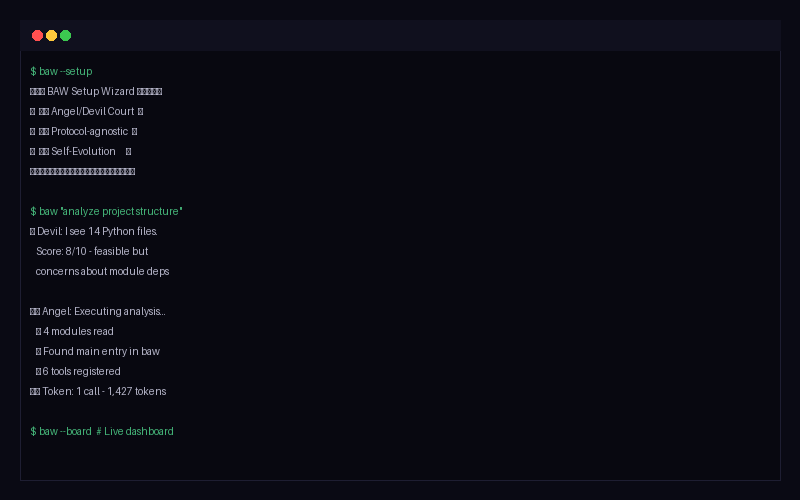
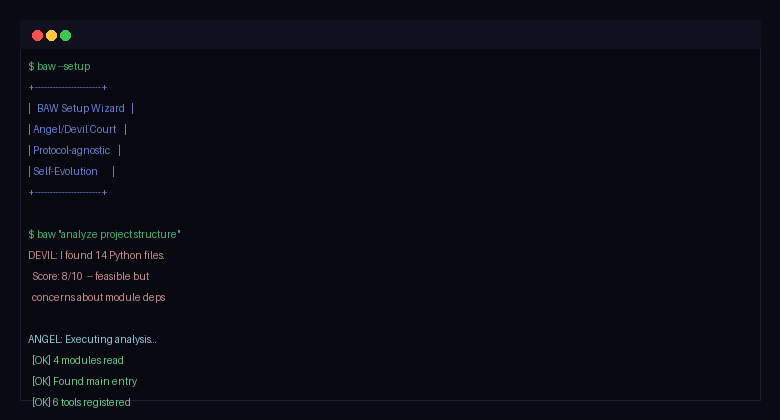
fix: demo terminal image — pure ASCII, no unicode artifacts

Changed region(s): [[0.0308, 0.4024, 0.2462, 0.9905], [0.0308, 0.1238, 0.2154, 0.3714], [0.0308, 0.0619, 0.0923, 0.0929]]

diff --git a/scripts/gen_demo_terminal.py b/scripts/gen_demo_terminal.py
@@ -1,50 +1,57 @@
-"""Generate demo terminal image for README."""
+"""Generate clean demo terminal image for README — ASCII only."""
 import os
 from PIL import Image, ImageDraw
 
-w, h = 800, 500
+w, h = 780, 420
 img = Image.new('RGB', (w, h), (10, 10, 20))
 draw = ImageDraw.Draw(img)
 
-# Draw terminal frame
+# Terminal frame + window dots
 draw.rectangle([20, 20, w-20, h-20], outline=(30, 30, 50), fill=(8, 8, 16))
-draw.rectangle([20, 20, w-20, 50], fill=(16, 16, 30))
+draw.rectangle([20, 20, w-20, 48], fill=(16, 16, 30))
 draw.ellipse([32, 30, 42, 40], fill=(255, 80, 80))
 draw.ellipse([46, 30, 56, 40], fill=(255, 200, 60))
 draw.ellipse([60, 30, 70, 40], fill=(60, 200, 80))
 
 lines = [
     ('prompt', '$ baw --setup'),
-    ('out',    '\u2554\u2550\u2550 BAW Setup Wizard \u2550\u2550\u2550\u2550\u2557'),
-    ('out',    '\u2551  \ud83e\ude84 Angel/Devil Court  \u2551'),
-    ('out',    '\u2551  \ud83d\udd0c Protocol-agnostic  \u2551'),
-    ('out',    '\u2551  \ud83e\udde0 Self-Evolution     \u2551'),
-    ('out',    '\u255a\u2550\u2550\u2550\u2550\u2550\u2550\u2550\u2550\u2550\u2550\u2550\u2550\u2550\u2550\u2550\u2550\u2550\u2550\u2550\u255d'),
-    ('prompt', ''),
+    ('banner', '+----------------------+'),
+    ('banner', '|   BAW Setup Wizard   |'),
+    ('banner', '| Angel/Devil Court    |'),
+    ('banner', '| Protocol-agnostic    |'),
+    ('banner', '| Self-Evolution       |'),
+    ('banner', '+----------------------+'),
+    ('',       ''),
     ('prompt', '$ baw "analyze project structure"'),
-    ('out',    '\u26ab Devil: I see 14 Python files.'),
-    ('out',    '   Score: 8/10 - feasible but'),
-    ('out',    '   concerns about module deps'),
-    ('out',    ''),
-    ('out',    '\ud83e\ude84 Angel: Executing analysis...'),
-    ('out',    '   \u2713 4 modules read'),
-    ('out',    '   \u2713 Found main entry in baw'),
-    ('out',    '   \u2713 6 tools registered'),
-    ('out',    '\ud83d\udcca Token: 1 call - 1,427 tokens'),
-    ('prompt', ''),
+    ('devil',  'DEVIL: I found 14 Python files.'),
+    ('devil',  '  Score: 8/10  -- feasible but'),
+    ('devil',  '  concerns about module deps'),
+    ('',       ''),
+    ('angel',  'ANGEL: Executing analysis...'),
+    ('ok',     '  [OK] 4 modules read'),
+    ('ok',     '  [OK] Found main entry'),
+    ('ok',     '  [OK] 6 tools registered'),
+    ('',       ''),
+    ('cost',   'Calls: 1  |  Total tokens: 1,427'),
+    ('',       ''),
     ('prompt', '$ baw --board  # Live dashboard'),
 ]
 
 colors = {
     'prompt': (68, 180, 120),
-    'out': (180, 180, 200),
+    'banner': (100, 130, 210),
+    'devil':  (200, 140, 140),
+    'angel':  (140, 200, 220),
+    'ok':     (100, 200, 140),
+    'cost':   (160, 160, 180),
+    '':       (180, 180, 200),
 }
 
-y = 65
+y = 60
 for typ, text in lines:
     c = colors.get(typ, (180, 180, 200))
-    draw.text((30, y), text, fill=c)
-    y += 20
+    draw.text((28, y), text, fill=c)
+    y += 21
 
 img.save('docs/demo-terminal.png')
-print('Saved docs/demo-terminal.png', os.path.getsize('docs/demo-terminal.png'))
+print(f"Saved: {os.path.getsize('docs/demo-terminal.png')} bytes")